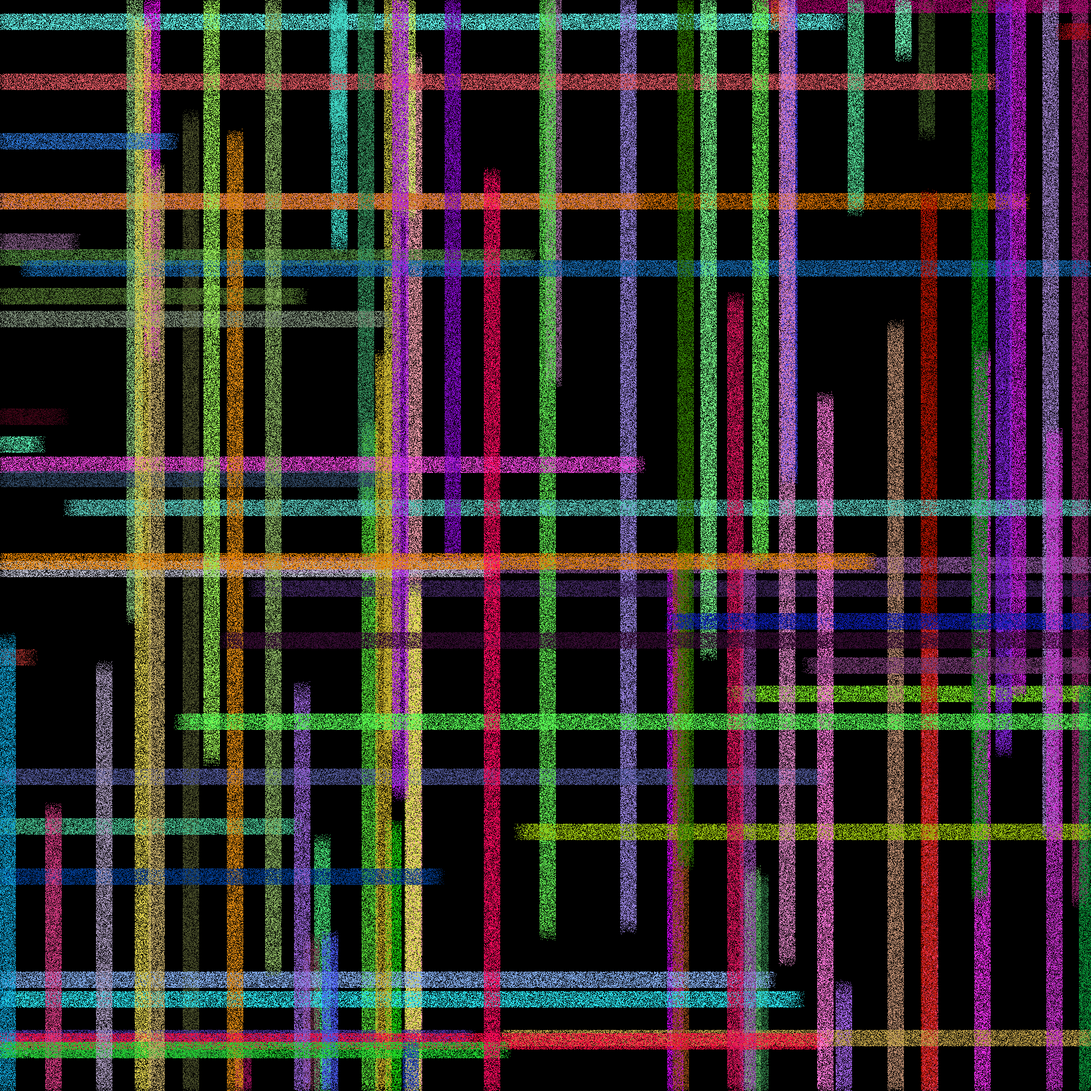
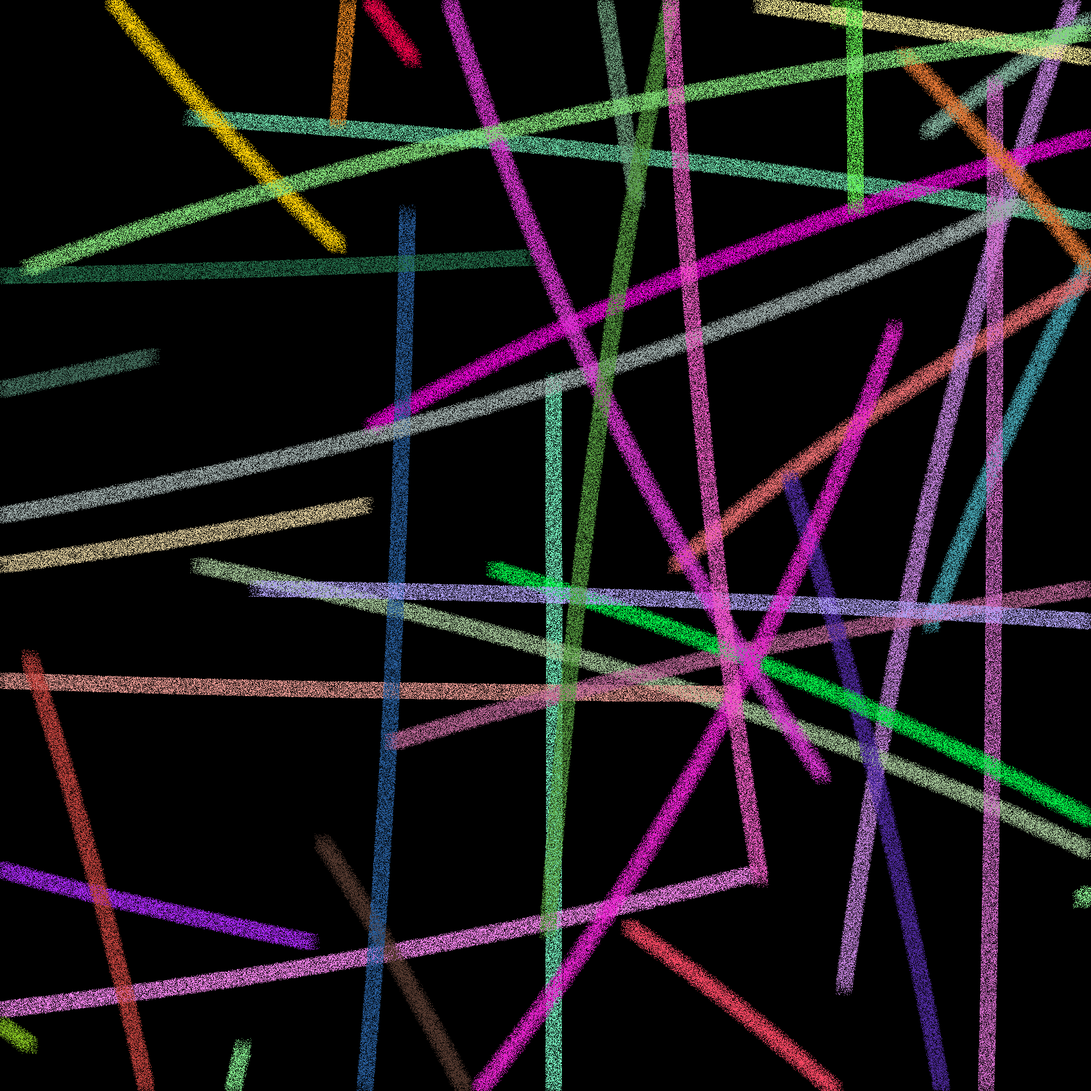
changed how angle vectors work

diff --git a/src/algorithms/mod.rs b/src/algorithms/mod.rs
@@ -173,12 +173,9 @@ fn randomly_permute_angle(angle: Deg<f64>, limiter: u64, rng: &mut ThreadRng) ->
 ///
 /// Returns a location one unit away from (x, y) in the direction of an angle
 ///
-fn move_point_one_unit(x: i32, y: i32, angle: Deg<f64>) -> (i32, i32) {
-    let salt = 0.0000001; // This salt is HACK used to increase the magnitude of angles that are a multiple of 45 degrees
-    let (vx, vy) = (angle.cos() * (angle.cos().abs() + salt), angle.sin() * (angle.sin().abs() + salt));
-    let x = (x as f64 + vx);
-    let y = (y as f64 + vy);
-    (x.round() as i32, y.round() as i32)
+fn move_point_one_unit(x: f64, y: f64, angle: Deg<f64>) -> (f64, f64) {
+    let (vx, vy) = (angle.cos() * angle.cos().abs(), angle.sin() * angle.sin().abs());
+    (x + vx, y + vy)
 }
 
 ///
@@ -296,30 +293,6 @@ mod tests {
         let pts = vec![(20, 0), (5, 10), (10, 10)];
         for (x, y) in pts {
             assert!(!point_is_in_rectangle(x, y, w, h))
-        }
-    }
-
-    #[test]
-    fn validate_move_point_one_unit() {
-        let tests = vec![
-            (1, 1, Deg(0.0), 2, 1),
-            (1, 1, Deg(30.0), 2, 1),
-            (1, 1, Deg(45.0), 2, 2),
-            (1, 1, Deg(52.5), 1, 2),
-            (1, 1, Deg(90.0), 1, 2),
-            (1, 1, Deg(180.0), 0, 1),
-            (1, 1, Deg(225.0), 0, 0),
-            (1, 1, Deg(270.0), 1, 0),
-            (1, 1, Deg(315.0), 2, 0),
-            (1, 1, Deg(350.0), 2, 1),
-            (150, 0, Deg(240.0), 150, 0),
-        ];
-
-        for test in tests {
-            let (x, y, deg, want_x, want_y) = test;
-            let (got_x, got_y) = move_point_one_unit(x, y, deg);
-            assert_eq!(want_x, got_x);
-            assert_eq!(want_y, got_y);
         }
     }
 }

diff --git a/src/algorithms/airbrush.rs b/src/algorithms/airbrush.rs
@@ -17,7 +17,7 @@ impl Create for Airbrush {
         let mut image = new_image_buffer(args);
         let mut rng = rand::thread_rng();
 
-        let points = random_points(args, 100);
+        let points = random_points(args, 40);
         for (x, y) in points {
             let color = random_color(args);
             draw_airbrushed_line(&mut image, x as i32, y as i32, color, &mut rng)
@@ -34,23 +34,33 @@ pub fn draw_airbrushed_line(
     color: [u8; 3],
     rng: &mut ThreadRng,
 ) {
+    let mut x = x as f64;
+    let mut y = y as f64;
     let (w, h) = image.dimensions();
     let mut angle = random_angle(rng);
+    let mut ct = 0;
 
     loop {
-        if !point_is_in_rectangle(x, y, w, h) {
+        let (rx, ry) = (x.round() as i32, y.round() as i32);
+        if !point_is_in_rectangle(rx, ry, w, h) {
             break;
         }
 
-        let neighbors = neighboring_points_within_depth(15, x, y, w, h);
+        let neighbors = neighboring_points_within_depth(15, rx, ry, w, h);
         let points_to_color = prune_points(neighbors, rng);
 
         for pt in points_to_color {
             image.put_pixel(pt.0 as u32, pt.1 as u32, Rgb(color));
         }
 
+        angle = angle.add(Deg(0.005));
         let pt = move_point_one_unit(x, y, angle);
         x = pt.0;
         y = pt.1;
+        ct += 1;
+
+        if ct > 3000 {
+            break;
+        }
     }
 }

diff --git a/src/algorithms/squiggly.rs b/src/algorithms/squiggly.rs
@@ -34,15 +34,19 @@ pub fn draw_squiggly_line(
     color: [u8; 3],
     rng: &mut ThreadRng,
 ) {
+    let mut x = x as f64;
+    let mut y = y as f64;
     let (w, h) = image.dimensions();
     let mut angle = random_angle(rng);
 
     loop {
-        if !point_is_in_rectangle(x, y, w, h) {
+        let (rx, ry) = (x.round() as i32, y.round() as i32);
+
+        if !point_is_in_rectangle(rx, ry, w, h) {
             break;
         }
 
-        image.put_pixel(x as u32, y as u32, Rgb(color));
+        image.put_pixel(rx as u32, ry as u32, Rgb(color));
         angle = randomly_permute_angle(angle, ANGLE_DIFFERENCE_LIMITER, rng);
         let pt = move_point_one_unit(x, y, angle);
         x = pt.0;
